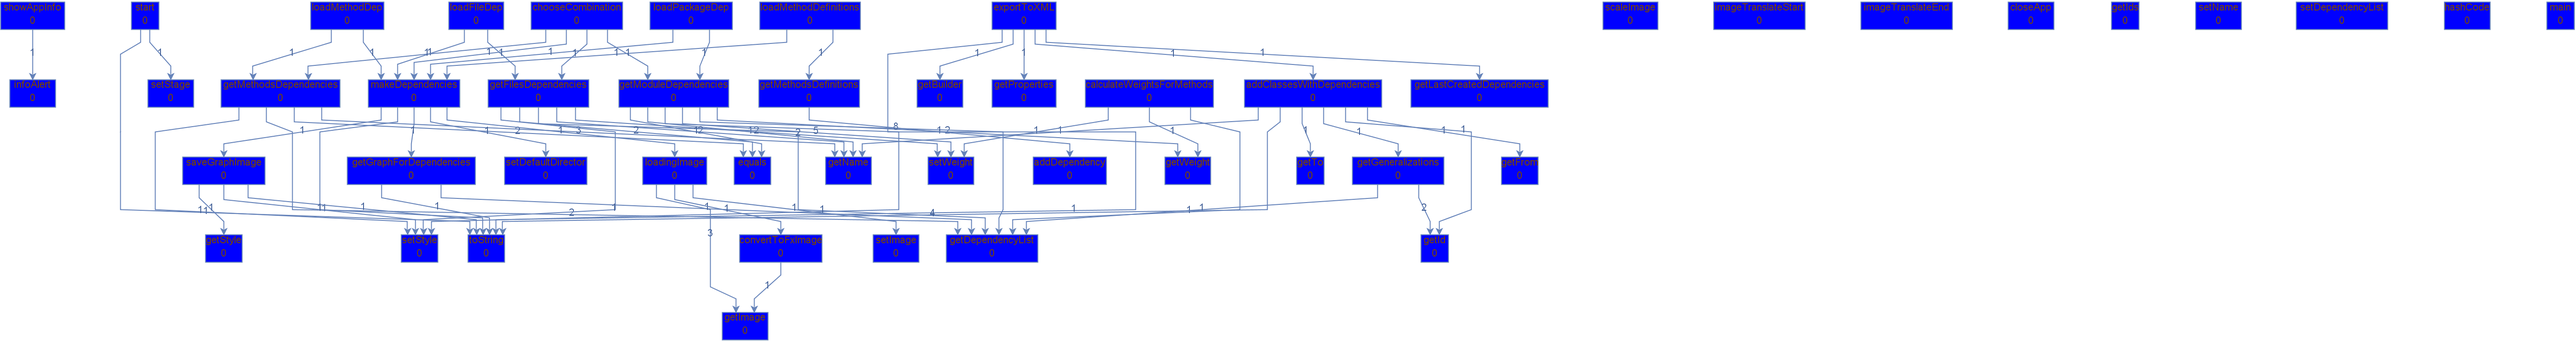
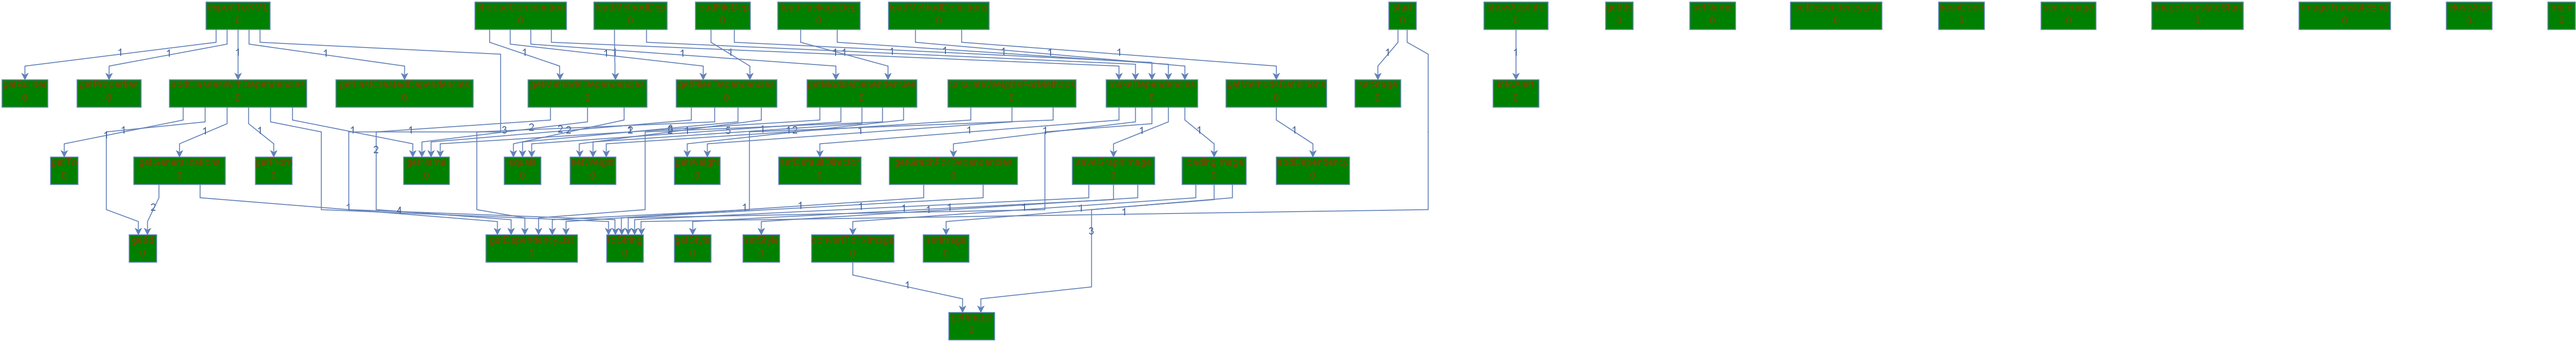
improvment of method definitions graph

diff --git a/src/main/java/model/dependency/DependencyFinder.java b/src/main/java/model/dependency/DependencyFinder.java
@@ -22,11 +22,7 @@ public class DependencyFinder {
         return lastCreatedDependencies;
     }
 
-    public List<DependencyObj> getFilesDependencies(String absoluteDirectoryPath) {
-        return getFilesDependencies(absoluteDirectoryPath, "");
-    }
-
-    public List<DependencyObj> getFilesDependencies(String absoluteDirectoryPath, String style){//Function which construct files dependency for STORY 1
+    public List<DependencyObj> getFilesDependencies(String absoluteDirectoryPath){//Function which construct files dependency for STORY 1
 
         List<DependencyObj> filesDependencies = new LinkedList<>();
         List<TypeDeclaration> classList = new LinkedList<>();
@@ -38,8 +34,7 @@ public class DependencyFinder {
         for(Optional<CompilationUnit> result : compilationList) {
             if(!result.isPresent()) continue; //skip empty object
             for(TypeDeclaration typeDec : result.get().getTypes()) {
-                DependencyObj obj = new DependencyObj(typeDec.getNameAsString());
-                obj.setStyle(style);
+                DependencyObj obj = new FileDependency(typeDec.getNameAsString());
                 //Size of file represented as lines count
                 Optional<Range> fileRange = typeDec.getRange();
                 if(fileRange.isPresent()){
@@ -70,7 +65,7 @@ public class DependencyFinder {
                 }).size();
 
                 if(dependenciesNum > 0) {
-                    int dependencyIndex = filesDependencies.indexOf(new DependencyObj(classItem.getNameAsString()));
+                    int dependencyIndex = filesDependencies.indexOf(new FileDependency(classItem.getNameAsString()));
                     DependencyObj temp = filesDependencies.get(dependencyIndex);
 
                     if(filesDependency.getDependencyList().computeIfPresent(temp, (k, v) -> v + dependenciesNum) == null) {
@@ -84,11 +79,7 @@ public class DependencyFinder {
         return filesDependencies;
     }
 
-    public List<DependencyObj> getMethodsDependencies(String absoluteDirectoryPath) {
-        return getMethodsDependencies(absoluteDirectoryPath, "");
-    }
-
-    public List<DependencyObj> getMethodsDependencies(String absoluteDirectoryPath, String style) { // STORY 2
+    public List<DependencyObj> getMethodsDependencies(String absoluteDirectoryPath) { // STORY 2
         List<DependencyObj> dependenciesList = new LinkedList<>();
         List<MethodDeclaration> methodsList = new LinkedList<>();
 
@@ -105,8 +96,7 @@ public class DependencyFinder {
                 for (BodyDeclaration member : members) {
                     if (member.isMethodDeclaration()) {
                         MethodDeclaration method = (MethodDeclaration) member;
-                        DependencyObj methodDependency = new DependencyObj(method.getNameAsString());
-                        methodDependency.setStyle(style);
+                        DependencyObj methodDependency = new MethodDependency(method.getNameAsString());
                         dependenciesList.add(methodDependency);
                         methodsList.add(method);
                     }
@@ -126,7 +116,7 @@ public class DependencyFinder {
                 ).size();
 
                 if(dependenciesNum > 0) {
-                    int dependencyIndex = dependenciesList.indexOf(new DependencyObj(method.getNameAsString()));
+                    int dependencyIndex = dependenciesList.indexOf(new MethodDependency(method.getNameAsString()));
                     DependencyObj temp = dependenciesList.get(dependencyIndex);
 
                     if(dependencyObj.getDependencyList().computeIfPresent(temp, (k, v) -> v + dependenciesNum) == null) {
@@ -140,11 +130,7 @@ public class DependencyFinder {
         return dependenciesList;
     }
 
-    public List<DependencyObj> getModuleDependencies(String rootFile) {
-        return getModuleDependencies(rootFile, "");
-    }
-
-    public List<DependencyObj> getModuleDependencies(String rootFile, String style) {    //story 3
+    public List<DependencyObj> getModuleDependencies(String rootFile) {    //story 3
         List<DependencyObj> moduleDependencies = new LinkedList<>();
         Map<PackageDeclaration, Set<DependencyObj>> packagesMethods = new HashMap<>(); //set to have unique method names
 
@@ -170,8 +156,7 @@ public class DependencyFinder {
                     .findAll(MethodDeclaration.class)
                     .stream()
                     .map((method) -> {
-                        DependencyObj temp = new DependencyObj(method.getNameAsString() + "\n" + packageName);
-                        temp.setStyle(style);
+                        DependencyObj temp = new ModuleDependency(method.getNameAsString() + "\n" + packageName);
                         return temp;
                     })
                     .collect(Collectors.toList());
@@ -188,7 +173,7 @@ public class DependencyFinder {
 
         //adding packages as nodes in graph list
         for(PackageDeclaration packageDec : packagesMethods.keySet()) {
-            DependencyObj temp = new DependencyObj(packageDec.getNameAsString());
+            DependencyObj temp = new ModuleDependency(packageDec.getNameAsString());
             temp.setWeight(0);
             moduleDependencies.add(temp);
 
@@ -230,12 +215,12 @@ public class DependencyFinder {
                     if(!foundMethodCount.isPresent()) continue; //skip empty
 
                     //manage connection A -> Packet_A, Packet_A -> Packet_B, Packet_B -> B
-                    DependencyObj objA = new DependencyObj(searchingMethodName);
+                    DependencyObj objA = new ModuleDependency(searchingMethodName);
                     DependencyObj packetA = moduleDependencies.get(moduleDependencies.indexOf(
-                            new DependencyObj(importDec.getNameAsString())));
+                            new ModuleDependency(importDec.getNameAsString())));
                     DependencyObj packetB = moduleDependencies.get(moduleDependencies.indexOf(
-                            new DependencyObj(classPackageName)));
-                    DependencyObj objB = new DependencyObj(methodCall.getNameAsString() + "\n" + classPackageName);
+                            new ModuleDependency(classPackageName)));
+                    DependencyObj objB = new ModuleDependency(methodCall.getNameAsString() + "\n" + classPackageName);
 
                     //connection A -> Package_A
                     int aIndexInList = moduleDependencies.indexOf(objA);
@@ -287,13 +272,12 @@ public class DependencyFinder {
         for(Optional<CompilationUnit> result : compilationList) {
             if(!result.isPresent()) continue; //skip empty object
             for(TypeDeclaration typeDec : result.get().getTypes()) {
-                DependencyObj classObject = new DependencyObj(typeDec.getNameAsString());
+                DependencyObj classObject = new MethodDefinitionDependency(typeDec.getNameAsString());
                 List<BodyDeclaration> bodyDeclarations = typeDec.getMembers();
                 for (BodyDeclaration bodyDeclaration : bodyDeclarations) {
                     if (bodyDeclaration.isMethodDeclaration()){
-                        System.out.println(((MethodDeclaration) bodyDeclaration).getNameAsString());
                         MethodDeclaration method = (MethodDeclaration) bodyDeclaration;
-                        DependencyObj methodDefinition = new DependencyObj(method.getNameAsString());
+                        DependencyObj methodDefinition = new MethodDefinitionDependency(method.getNameAsString());
                         classObject.addDependency(methodDefinition);
                     }
                 }

diff --git a/src/main/java/controller/Controller.java b/src/main/java/controller/Controller.java
@@ -116,15 +116,15 @@ public class Controller {
     }
 
     public void loadFileDep(ActionEvent actionEvent) {
-        makeDependencies(absolutePath -> dependencyFinder.getFilesDependencies(absolutePath, "fillColor=red"), fileNameForFirstGraph, "Showing class dependencies");
+        makeDependencies(absolutePath -> dependencyFinder.getFilesDependencies(absolutePath), fileNameForFirstGraph, "Showing class dependencies");
     }
 
     public void loadMethodDep(ActionEvent actionEvent) {
-        makeDependencies(absolutePath -> dependencyFinder.getMethodsDependencies(absolutePath, "fillColor=blue"), fileNameForSecondGraph, "Showing method dependencies");
+        makeDependencies(absolutePath -> dependencyFinder.getMethodsDependencies(absolutePath), fileNameForSecondGraph, "Showing method dependencies");
     }
 
     public void loadPackageDep(ActionEvent actionEvent) {
-        makeDependencies(absolutePath -> dependencyFinder.getModuleDependencies(absolutePath, "fillColor=green"), fileNameForThirdGraph, "Showing module dependencies");
+        makeDependencies(absolutePath -> dependencyFinder.getModuleDependencies(absolutePath), fileNameForThirdGraph, "Showing module dependencies");
     }
 
     public void exportToXML(ActionEvent actionEvent) {
@@ -181,15 +181,15 @@ public class Controller {
             makeDependencies(absolutePath -> {
                 List<DependencyObj> mixedDependencies = new ArrayList<>();
                 if (checkBoxFile.isSelected()) {
-                    List<DependencyObj> filesDependencies = dependencyFinder.getFilesDependencies(absolutePath, "fillColor=red");
+                    List<DependencyObj> filesDependencies = dependencyFinder.getFilesDependencies(absolutePath);
                     mixedDependencies.addAll(filesDependencies);
                 }
                 if (checkBoxMethod.isSelected()) {
-                    List<DependencyObj> methodsDependencies = dependencyFinder.getMethodsDependencies(absolutePath, "fillColor=green");
+                    List<DependencyObj> methodsDependencies = dependencyFinder.getMethodsDependencies(absolutePath);
                     mixedDependencies.addAll(methodsDependencies);
                 }
                 if (checkBoxPackage.isSelected()) {
-                    List<DependencyObj> moduleDependencies = dependencyFinder.getModuleDependencies(absolutePath, "fillColor=blue");
+                    List<DependencyObj> moduleDependencies = dependencyFinder.getModuleDependencies(absolutePath);
                     mixedDependencies.addAll(moduleDependencies);
                 }
                 return mixedDependencies;
@@ -206,7 +206,6 @@ public class Controller {
     public void loadMethodDefinitions() {
         makeDependencies(absolutePath -> dependencyFinder.getMethodsDefinitions(absolutePath), fileNameForFourthGraph, "Showing method definitions");
     }
-
 
     public void closeApp(ActionEvent actionEvent) {
         Platform.exit();

diff --git a/src/main/java/model/GraphDraw.java b/src/main/java/model/GraphDraw.java
@@ -1,5 +1,7 @@
 package model;
 import model.dependency.DependencyObj;
+import model.dependency.MethodDefinitionDependency;
+
 import org.jgraph.graph.DefaultEdge;
 import org.jgrapht.graph.DefaultDirectedWeightedGraph;
 
@@ -16,13 +18,23 @@ public class GraphDraw {
             HashMap<DependencyObj, Integer> dependencies = dependencyObj.getDependencyList();
             for (Map.Entry<DependencyObj, Integer> entry : dependencies.entrySet()) {
                 graph.addVertex(entry.getKey());
-                graph.addEdge(entry.getKey(), dependencyObj, new EdgeSettings(entry.getValue().toString()));
+                EdgeSettings edgeSettings;
+                if (entry.getKey() instanceof MethodDefinitionDependency){
+                    edgeSettings = new EdgeSettings();
+                }else {
+                    edgeSettings = new EdgeSettings(entry.getValue().toString());
+                }
+                graph.addEdge(entry.getKey(), dependencyObj, edgeSettings);
             }
         }
         return graph;
     }
     public static class EdgeSettings extends DefaultEdge {
         private String label;
+
+        public EdgeSettings(){
+
+        }
 
         public EdgeSettings(String label) {
             this.label = label;

diff --git a/src/main/java/model/dependency/MethodDefinitionDependency.java b/src/main/java/model/dependency/MethodDefinitionDependency.java
@@ -1,0 +1,12 @@
+package model.dependency;
+
+public class MethodDefinitionDependency extends DependencyObj{
+    public MethodDefinitionDependency(String name) {
+        super(name);
+    }
+
+    @Override
+    public String toString() {
+        return this.name;
+    }
+}
